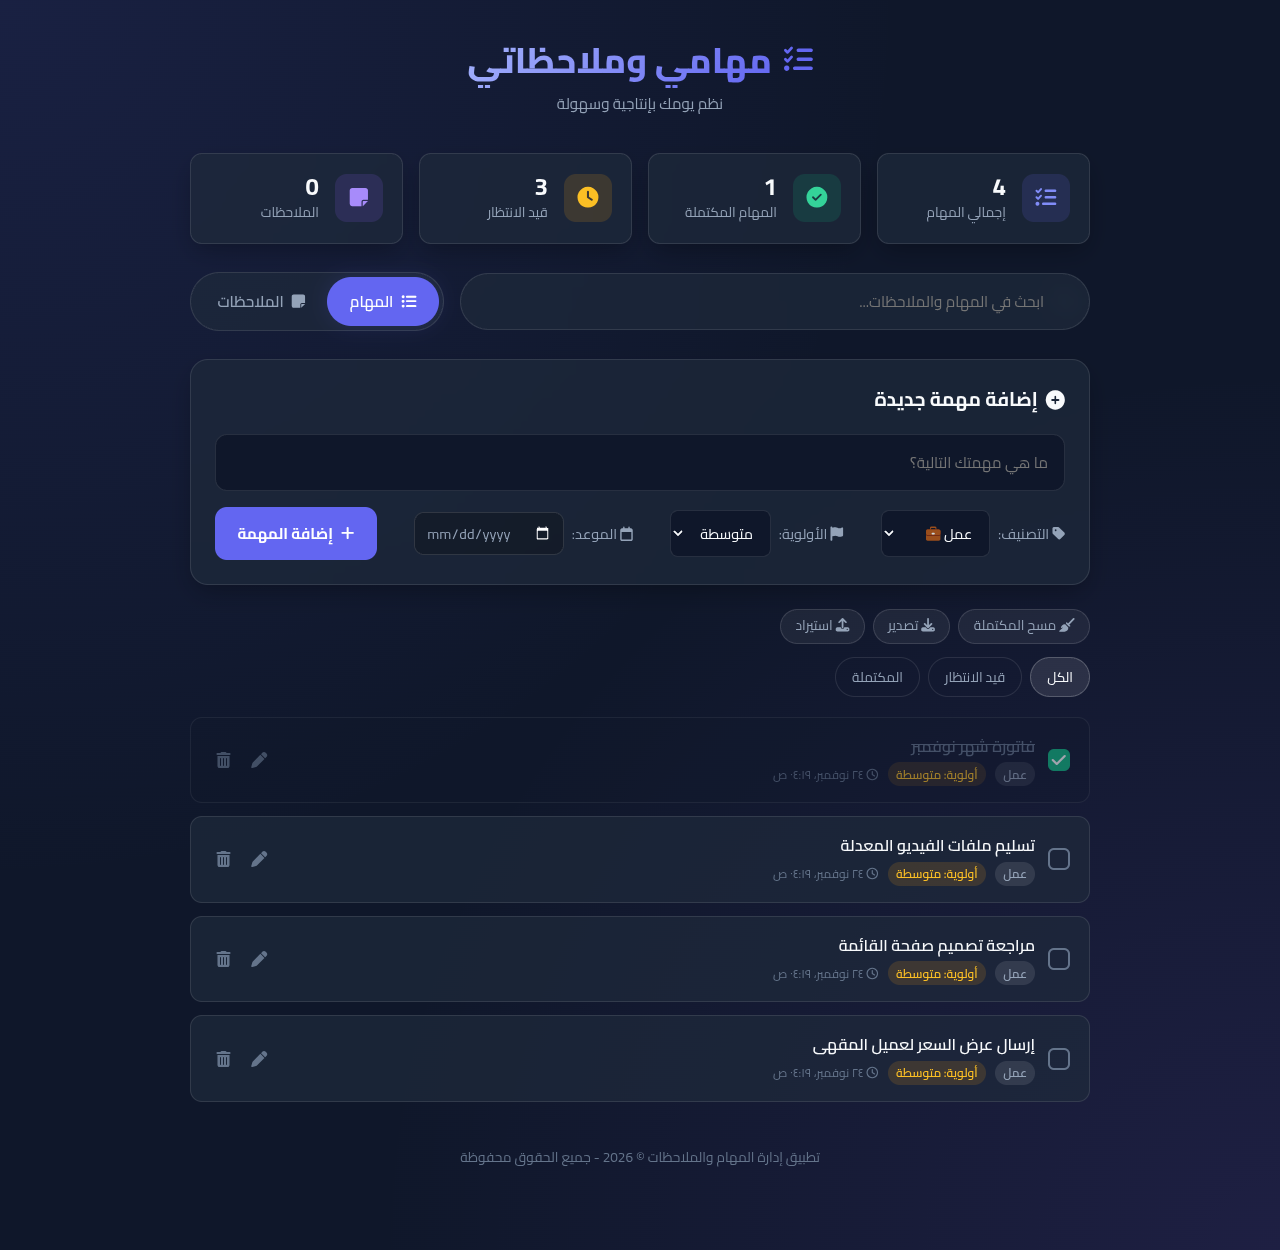
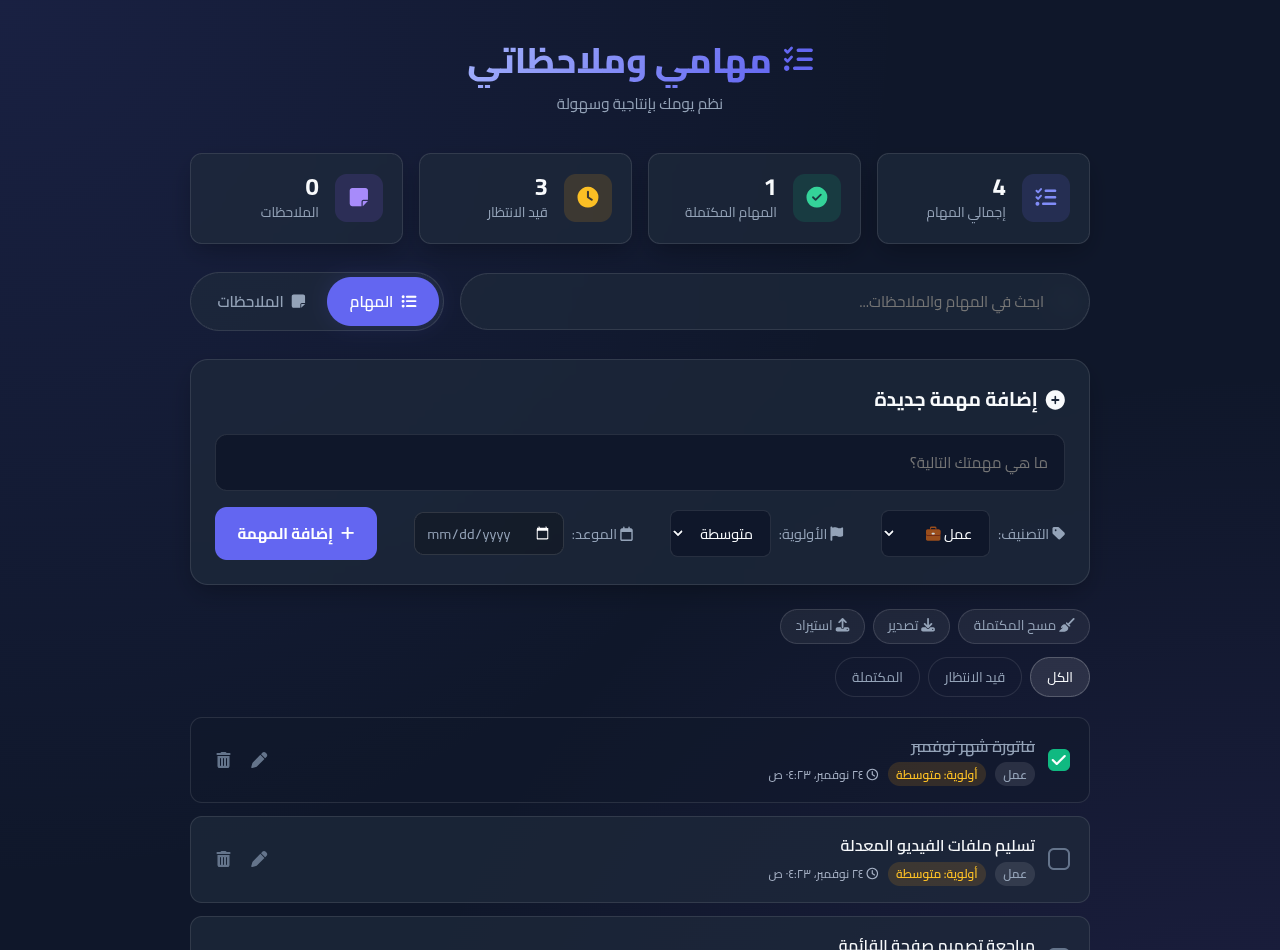
Mobile readability, README rewrite, new screenshot

diff --git a/my-first-app/styles.css b/my-first-app/styles.css
@@ -589,3 +589,13 @@ body {
   .icon-btn { min-width: 44px; min-height: 44px; }
   .task-checkbox { min-width: 28px; min-height: 28px; }
 }
+
+/* readability fixes (mobile screenshots review) */
+.task-item.completed { opacity: 1; }
+.task-item.completed .task-text { color: #94a3b8; }
+.task-meta { flex-wrap: wrap; row-gap: 0.35rem; color: #a8b3c7; }
+.task-meta > span, .badge { white-space: nowrap; }
+@media (max-width: 640px) {
+  .task-meta { font-size: 0.8rem; }
+  .task-item { padding: 0.9rem; }
+}

diff --git a/README.md b/README.md
@@ -1,23 +1,23 @@
 # Tasks & Notes App
 
+![Tasks & Notes](docs/screenshot.png)
+
+_Screenshot with sample tasks entered through the page._
+
 A small browser app for tracking daily tasks and short notes. Arabic interface (right-to-left). Plain HTML, CSS and JavaScript, no build step and no server.
 
-![Screenshot](docs/screenshot.jpg)
-
-_Screenshot from a local run._
-
 ## What it does
-- Add tasks with a category, a priority and a due date; mark them done, edit them, clear finished ones
-- Add and search notes
+- Add tasks with a category, a priority and a due date; mark them done, edit them inline, clear finished ones
+- Filter tasks (all, pending, done) and search tasks and notes
+- Add and delete notes
 - Counters for total, done and pending tasks
-- Export your data to a file and import it back
+- Export your data to a JSON file and import it back (an invalid file is rejected and changes nothing)
 - Everything is saved in your browser (localStorage). Nothing is sent anywhere.
 
 ## Run it
 Open `my-first-app/index.html` in a browser, or from the repository root run `python3 -m http.server 8000` and open http://localhost:8000/my-first-app/
 
-## Limits
+## Tests and limits
+- Browser-tested in headless Chrome: 18 checks passed (add, blank rejected, complete, filters, search, edit, clear done, export, valid and invalid import, HTML in tasks and notes shown as text, persistence, mobile layout). The test scripts are not included in this repository.
+- The fonts and icons load from Google Fonts and cdnjs, so without internet the page still works but uses fallback fonts and shows no icons.
 - Data lives only in the browser it was entered in; clearing site data removes it.
-- Not tested on every browser. Automated tests are not included in this repository.
-
-Built by Mahamed Yasser.
